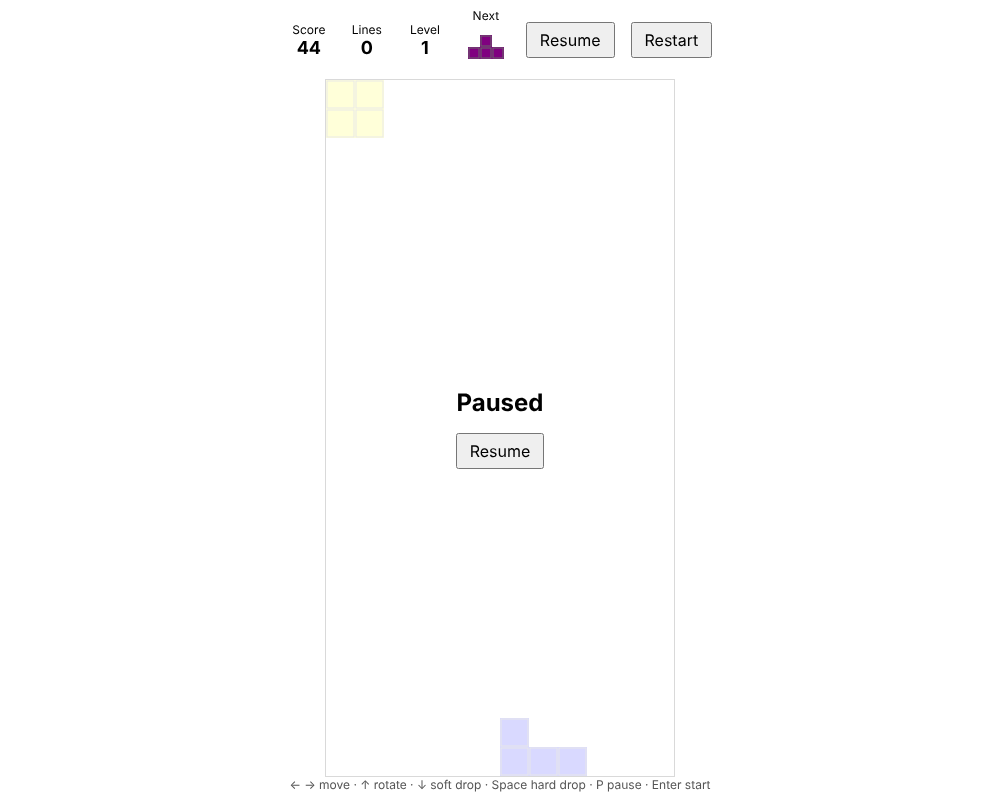
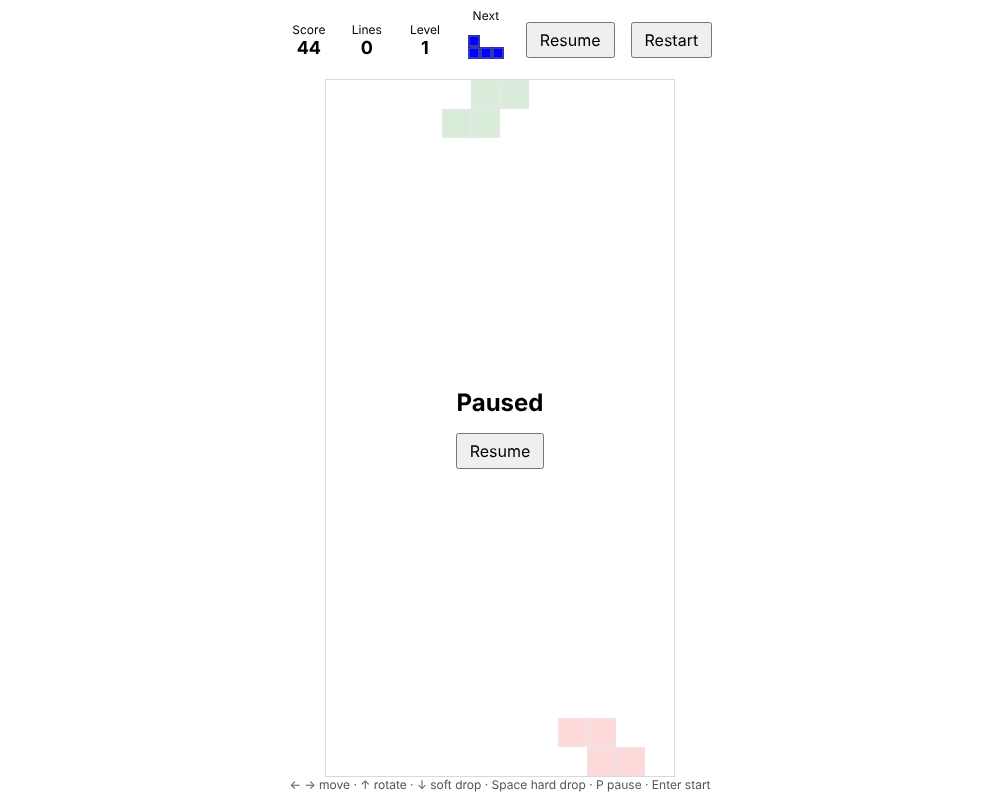
Add touch gestures and on-screen controls (#12)
- Board gestures (touch/pen pointer events): tap rotates, horizontal
  drag moves one column per cell dragged, dragging down soft-drops one
  row per cell, a fast flick down hard-drops.
- On-screen buttons below the board (move, soft drop, hard drop,
  rotate), shown on coarse-pointer devices; move and soft drop repeat
  while held. The keyboard hint is hidden there instead.
- Both feed the same commands as the keyboard.
- Vibrate on line clear and game over where supported.
- Tighter HUD on narrow screens so it stays on one row.

Claude-Session: https://claude.ai/code/session_01JeJAaRgB11ZAbMtEvVZMKc

Changed region(s): [[0.496, 0.875, 0.651, 0.9688], [0.434, 0.0312, 0.527, 0.1875], [0.31, 0.0938, 0.403, 0.1875]]

diff --git a/tetris.js b/tetris.js
@@ -69,6 +69,7 @@ function Game () {
     function over () {
         clearTimeout(timer)
         state = 'over'
+        vibrate(200)
         show()
         return false
     }
@@ -97,6 +98,7 @@ function Game () {
             stats.lines += cleared
             stats.level = 1 + Math.floor(stats.lines / 10)
             addScore(lineScores[cleared] * stats.level)
+            vibrate(30)
         }
         if(memory.isOver()) return over()
         return spawn()
@@ -240,6 +242,70 @@ function Input(command) {
         button.blur()
         command(button.dataset.command)
     })
+    Gestures(document.getElementById('board'), command)
+    document.querySelectorAll('#controls button').forEach(button => {
+        let timer
+        const stop = () => clearTimeout(timer)
+        button.addEventListener('pointerdown', event => {
+            event.preventDefault()
+            const name = button.dataset.control
+            command(name)
+            if(!repeatable.includes(name)) return
+            // auto-repeat while held
+            const repeat = delay => {
+                timer = setTimeout(() => {
+                    command(name)
+                    repeat(60)
+                }, delay)
+            }
+            repeat(200)
+        })
+        ;['pointerup', 'pointerleave', 'pointercancel'].forEach(type => {
+            button.addEventListener(type, stop)
+        })
+        button.addEventListener('contextmenu', event => event.preventDefault())
+    })
+}
+
+// tap: rotate, drag: move one column per cell dragged, drag down: soft
+// drop, fast flick down: hard drop
+function Gestures(surface, command) {
+    let drag
+    const steps = distance => Math.trunc(distance / length)
+    surface.addEventListener('pointerdown', event => {
+        if(event.pointerType === 'mouse' || !event.isPrimary) return
+        surface.setPointerCapture(event.pointerId)
+        drag = {
+            x: event.clientX,
+            y: event.clientY,
+            time: event.timeStamp,
+            columns: 0,
+            rows: 0
+        }
+    })
+    surface.addEventListener('pointermove', event => {
+        if(!drag || !event.isPrimary) return
+        const x = steps(event.clientX - drag.x)
+        const y = steps(event.clientY - drag.y)
+        for(; drag.columns < x; drag.columns++) command('right')
+        for(; drag.columns > x; drag.columns--) command('left')
+        for(; drag.rows < y; drag.rows++) command('softDrop')
+    })
+    surface.addEventListener('pointerup', event => {
+        if(!drag || !event.isPrimary) return
+        const dx = event.clientX - drag.x
+        const dy = event.clientY - drag.y
+        const velocity = dy / Math.max(1, event.timeStamp - drag.time)
+        if(!drag.columns && !drag.rows && Math.hypot(dx, dy) < length){
+            command('rotate')
+        } else if(dy > 2 * length && dy > Math.abs(dx) && velocity > 1){
+            command('hardDrop')
+        }
+        drag = undefined
+    })
+    surface.addEventListener('pointercancel', () => {
+        drag = undefined
+    })
 }
 
 // models  ====================================================================
@@ -379,6 +445,10 @@ function scale(canvas, w, h) {
     canvas.style.width = `${w}px`
     canvas.style.height = `${h}px`
     canvas.getContext('2d').setTransform(ratio, 0, 0, ratio, 0, 0)
+}
+
+function vibrate(duration) {
+    if(navigator.vibrate) navigator.vibrate(duration)
 }
 
 function renderNext(block) {

diff --git a/index.html b/index.html
@@ -82,6 +82,36 @@
         #overlay h2, #overlay p {
             margin: 0;
         }
+        #controls {
+            display: none;
+            gap: 8px;
+            padding: 8px;
+        }
+        #controls button {
+            flex: 1;
+            min-height: 56px;
+            font-size: 24px;
+        }
+        @media (pointer: coarse) {
+            #controls {
+                display: flex;
+            }
+            #keys {
+                display: none;
+            }
+        }
+        @media (max-width: 480px) {
+            #hud {
+                gap: 4px 10px;
+            }
+            .stat {
+                min-width: 2.5em;
+            }
+            #hud button {
+                padding: 6px 8px;
+                font-size: 14px;
+            }
+        }
         #keys {
             margin: 0;
             padding: 0 8px 8px;
@@ -110,6 +140,13 @@
             </div>
         </div>
     </main>
+    <nav id="controls">
+        <button data-control="left" aria-label="Move left">◀</button>
+        <button data-control="right" aria-label="Move right">▶</button>
+        <button data-control="softDrop" aria-label="Soft drop">▼</button>
+        <button data-control="hardDrop" aria-label="Hard drop">⤓</button>
+        <button data-control="rotate" aria-label="Rotate">⟳</button>
+    </nav>
     <p id="keys">← → move · ↑ rotate · ↓ soft drop · Space hard drop · P pause · Enter start</p>
     <script src="tetris.js"></script>
 </body>

diff --git a/README.md b/README.md
@@ -11,3 +11,5 @@ Controls:
 - P or Esc: pause / resume
 - Enter: start / play again
 
+On touch screens: tap the board to rotate, drag sideways to move, drag down to soft drop, flick down to hard drop, or use the buttons below the board.
+
